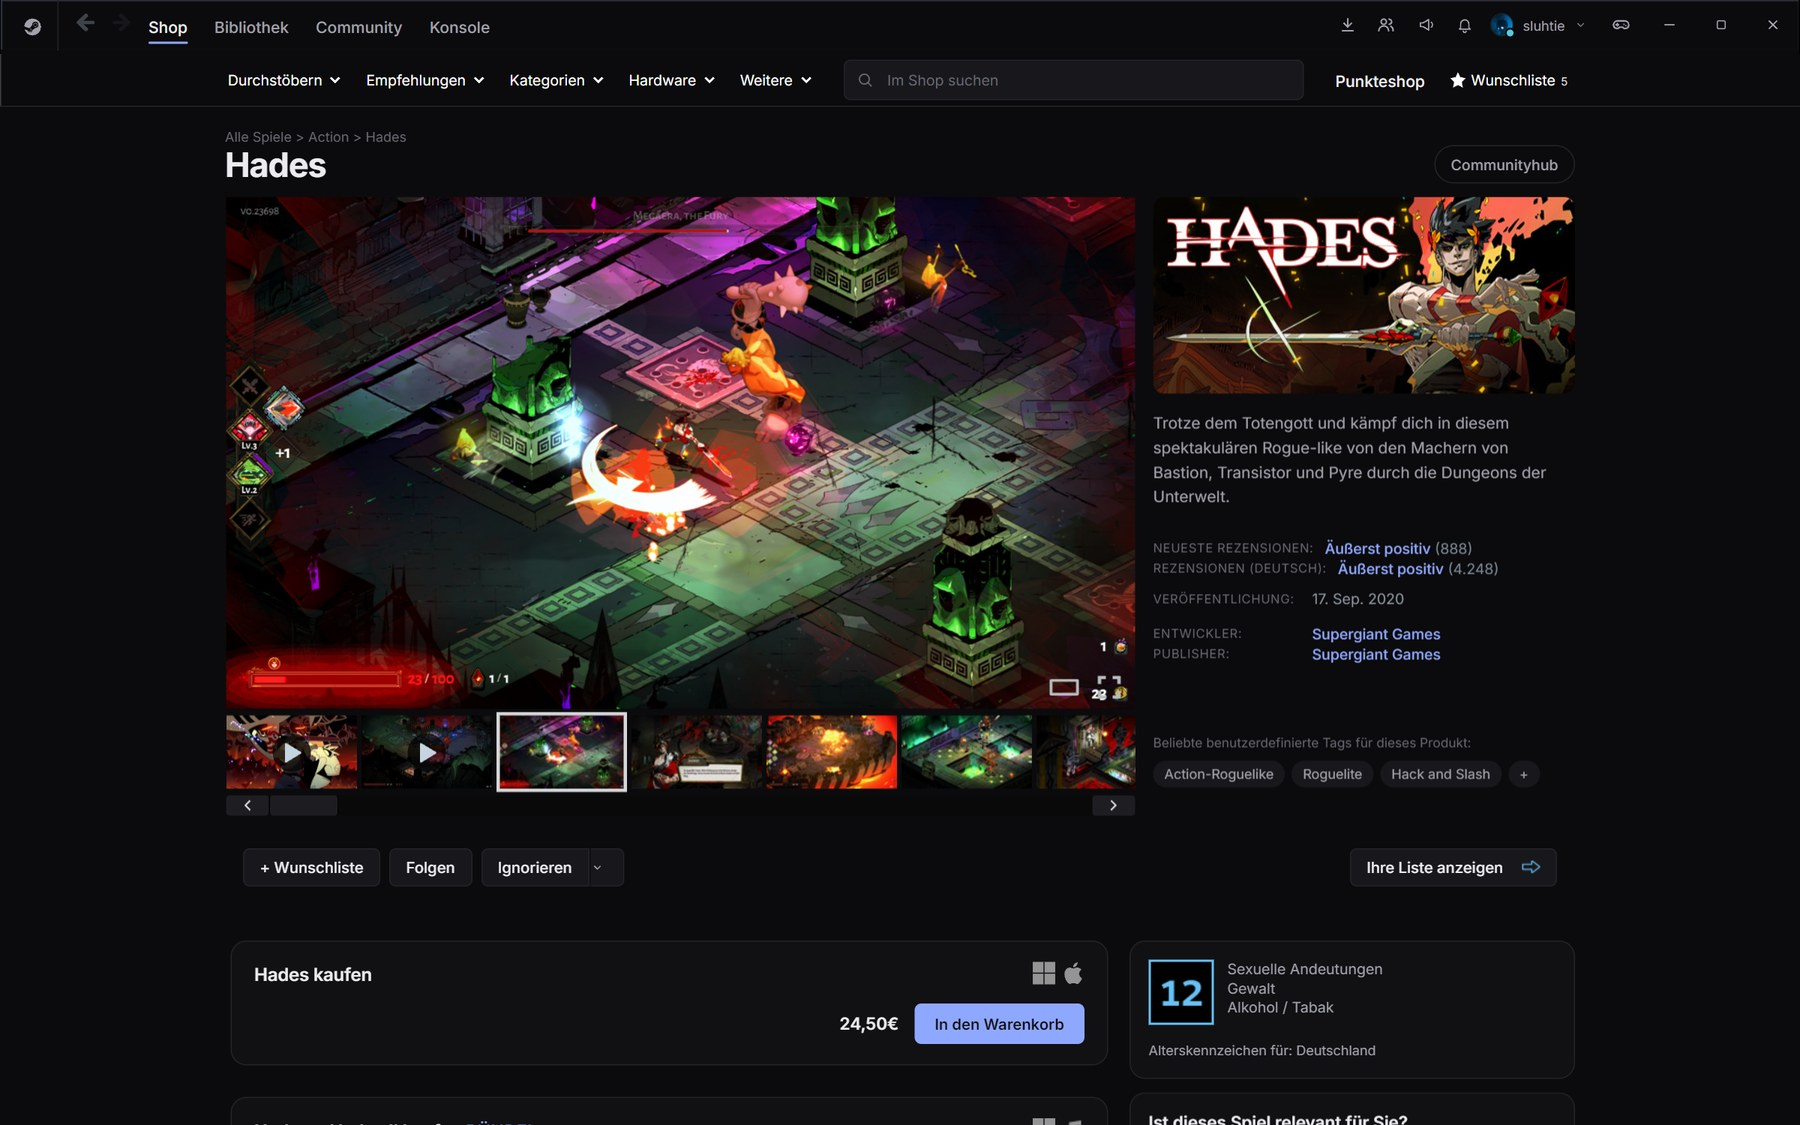
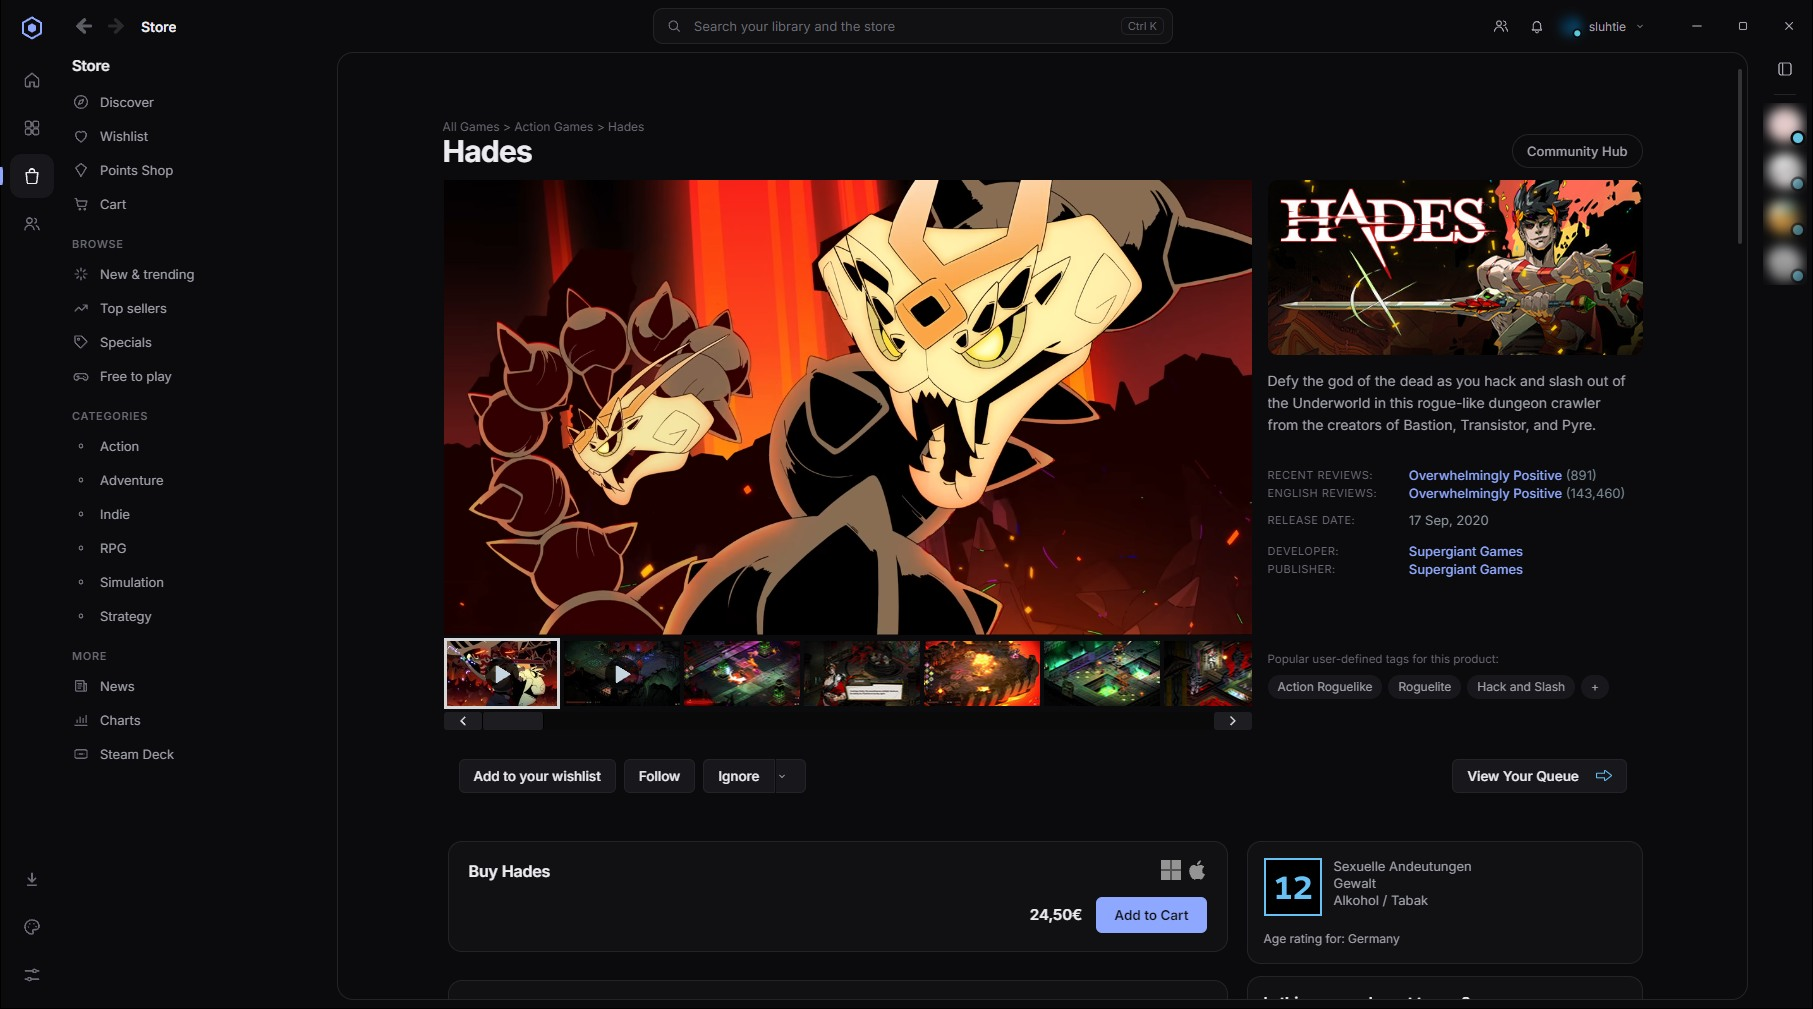
README and screenshots for Graphite 2.0, version 2.0.0
New captures of the 2.0 layout (library, game details, store front,
category page, points shop, store game page, wishlist, market, Graphite
settings page; friends' avatars blurred), re-rendered banner, thumbnail,
Millennium splash and a 2.0 highlights graphic. README: what's new in 2.0,
updated screenshots table, themed areas, options (Navigation 2.0, Startup
screen, the Graphite page), install steps for 2.0, how the shell works and
which requests the theme makes.

diff --git a/docs/src/features.html b/docs/src/features.html
@@ -33,34 +33,34 @@
 <body>
 	<div class="grid">
 		<div class="card">
-			<div class="icon"><svg viewBox="0 0 24 24" fill="none" stroke="currentColor" stroke-width="1.8" stroke-linecap="round" stroke-linejoin="round"><rect x="3" y="4" width="18" height="16" rx="3"/><path d="M3 9h18"/><path d="M7 6.5h.01M10 6.5h.01"/></svg></div>
-			<h3>One clean header</h3>
-			<p>A single row for navigation, downloads, friends and account. Menus fold away behind the Steam logo.</p>
+			<div class="icon"><svg viewBox="0 0 24 24" fill="none" stroke="currentColor" stroke-width="1.8" stroke-linecap="round" stroke-linejoin="round"><rect x="3" y="4" width="18" height="16" rx="3"/><path d="M8 4v16"/><path d="M5.5 8h.01M5.5 11h.01M5.5 14h.01"/></svg></div>
+			<h3>A new layout</h3>
+			<p>Graphite 2.0: an icon rail, one search in the title bar and a side navigation for the store and community.</p>
 		</div>
 		<div class="card">
-			<div class="icon"><svg viewBox="0 0 24 24" fill="none" stroke="currentColor" stroke-width="1.8" stroke-linecap="round" stroke-linejoin="round"><rect x="3" y="3" width="7.5" height="7.5" rx="2"/><rect x="13.5" y="3" width="7.5" height="7.5" rx="2"/><rect x="3" y="13.5" width="7.5" height="7.5" rx="2"/><rect x="13.5" y="13.5" width="7.5" height="7.5" rx="2"/></svg></div>
-			<h3>Library</h3>
-			<p>Game list, home shelves, game pages, activity, downloads and the news overlay in one calm style.</p>
+			<div class="icon"><svg viewBox="0 0 24 24" fill="none" stroke="currentColor" stroke-width="1.8" stroke-linecap="round" stroke-linejoin="round"><circle cx="11" cy="11" r="7"/><path d="m20 20-3.5-3.5"/></svg></div>
+			<h3>One search</h3>
+			<p>Your library and the store in one box, with live store suggestions, prices and discounts as you type.</p>
 		</div>
 		<div class="card">
 			<div class="icon"><svg viewBox="0 0 24 24" fill="none" stroke="currentColor" stroke-width="1.8" stroke-linecap="round" stroke-linejoin="round"><path d="M5 8h14l-1.2 11.2a2 2 0 0 1-2 1.8H8.2a2 2 0 0 1-2-1.8L5 8z"/><path d="M9 8V6.5a3 3 0 0 1 6 0V8"/></svg></div>
-			<h3>Store &amp; Community</h3>
-			<p>Redesigned store front, game pages, wishlist and news hub, plus profiles, discussions and the Market.</p>
+			<h3>Store, redesigned</h3>
+			<p>Hero cards on the front page and every category, a points shop with its own banner, calm cards and prices.</p>
 		</div>
 		<div class="card">
-			<div class="icon"><svg viewBox="0 0 24 24" fill="none" stroke="currentColor" stroke-width="1.8" stroke-linecap="round" stroke-linejoin="round"><path d="M20 12a8 8 0 0 1-11.6 7.1L4 20l1-4.2A8 8 0 1 1 20 12z"/><path d="M9 11.5h.01M12 11.5h.01M15 11.5h.01"/></svg></div>
-			<h3>Friends &amp; chat</h3>
-			<p>A tidy friends list with status dots, a roomy chat window, emoji picker and context menus.</p>
+			<div class="icon"><svg viewBox="0 0 24 24" fill="none" stroke="currentColor" stroke-width="1.8" stroke-linecap="round" stroke-linejoin="round"><path d="M16 21v-2a4 4 0 0 0-4-4H6a4 4 0 0 0-4 4v2"/><circle cx="9" cy="7" r="4"/><path d="M22 21v-2a4 4 0 0 0-3-3.87"/><path d="M16 3.13a4 4 0 0 1 0 7.75"/></svg></div>
+			<h3>Friends at hand</h3>
+			<p>A friends dock on the side with a status menu and unread glow, group chats and the chat window in one style.</p>
 		</div>
 		<div class="card">
 			<div class="icon"><svg viewBox="0 0 24 24" fill="none" stroke="currentColor" stroke-width="1.8" stroke-linecap="round" stroke-linejoin="round"><path d="M12 3a9 9 0 1 0 0 18c1.1 0 1.8-.8 1.8-1.7 0-.5-.2-.9-.5-1.2-.3-.3-.5-.8-.5-1.2 0-1 .8-1.8 1.8-1.8H16a5 5 0 0 0 5-5c0-3.9-4-7.1-9-7.1z"/><path d="M7.5 11h.01M10 7h.01M14.5 7h.01"/></svg></div>
-			<h3>Your colors</h3>
-			<p>Pick any accent, tune every surface and text level, and choose font, corners and layout.</p>
+			<h3>Your colors, live</h3>
+			<p>A Graphite page in the client: accent presets, every color applied live, font, corners and layout.</p>
 		</div>
 		<div class="card">
-			<div class="icon"><svg viewBox="0 0 24 24" fill="none" stroke="currentColor" stroke-width="1.8" stroke-linecap="round" stroke-linejoin="round"><path d="M20 11a8 8 0 0 0-14.7-4.4L4 8"/><path d="M4 4v4h4"/><path d="M4 13a8 8 0 0 0 14.7 4.4L20 16"/><path d="M20 20v-4h-4"/></svg></div>
-			<h3>Survives updates</h3>
-			<p>Readable class tokens are resolved against your Steam install. One command fixes it after an update.</p>
+			<div class="icon"><svg viewBox="0 0 24 24" fill="none" stroke="currentColor" stroke-width="1.8" stroke-linecap="round" stroke-linejoin="round"><path d="M12 2.5 20.2 7.25v9.5L12 21.5 3.8 16.75v-9.5L12 2.5Z"/><path d="M12 8.5 15 10.25v3.5L12 15.5l-3-1.75v-3.5L12 8.5Z"/></svg></div>
+			<h3>The details</h3>
+			<p>Graphite logo on the startup screen and loading spinners, a loading bar for web pages, rounded frame, floating scrollbar.</p>
 		</div>
 	</div>
 </body>

diff --git a/README.md b/README.md
@@ -4,7 +4,9 @@
 
 **A clean, minimal and modern theme for the Steam desktop client, built for [Millennium](https://steambrew.app).**
 
-Neutral graphite surfaces, one accent color you choose, quiet typography and a single-row header. Graphite restyles the whole client, from the library and menus to the store, community and friends chat, without gradients, glow or visual noise.
+Neutral graphite surfaces, one accent color you choose and quiet typography. Graphite restyles the whole client, from the library and menus to the store, community and friends chat, without gradients, glow or visual noise.
+
+**New in 2.0 (beta):** a rebuilt app layout with an icon rail, one search for your library and the store, a side navigation for the store and community, a friends dock and a settings page of its own.
 
 [![Millennium theme](https://img.shields.io/badge/Millennium-theme-8fa8ff?style=for-the-badge&labelColor=18181c&logo=steam&logoColor=ececf0)](https://steambrew.app/theme/AhWCRyHBVXoohiaVWWBW)
 [![Version](https://img.shields.io/github/package-json/v/sluhtie/graphite-steam?style=for-the-badge&labelColor=18181c&color=8fa8ff&label=version)](https://github.com/sluhtie/graphite-steam/commits/main)
@@ -14,9 +16,19 @@ Neutral graphite surfaces, one accent color you choose, quiet typography and a s
 
 ---
 
-## Highlights
+## What's new in 2.0
 
-![Graphite highlights](docs/features.jpg)
+![Graphite 2.0 highlights](docs/features.jpg)
+
+Graphite 2.0 is an optional layout for the main window. Turn it on with **Navigation → Graphite 2.0 (beta)** (see [Make it yours](#make-it-yours)); the classic layouts stay available.
+
+- **Icon rail** on the left: Home, Library, Store, Community, Downloads (with a progress ring), Graphite settings and Steam settings. The Graphite logo replaces the Steam logo and holds View / Friends / Games / Help.
+- **One search** in the title bar for your library and the store, with live store suggestions, prices and discounts as you type (`Ctrl K`).
+- **Side navigation** for the store (Discover, Wishlist, Points Shop, Cart, browse, categories, news, charts) and the community (activity, profile, friends, groups, discussions, workshop, market, inventory, badges ...). The page sits next to it in a rounded frame with a floating scrollbar and a thin loading bar.
+- **Friends dock** on the right: friends by status, a status menu (Online, Away, Invisible, Offline, Do not disturb), unread glow and your chats.
+- **Store, redesigned**: hero cards on the store front and on every category page (art, logo, description, price, add to cart, wishlist), a Points Shop with its own banner and category chips, calm capsules, prices and hover cards.
+- **Graphite settings page**: accent presets and every color applied live, font, corners and layout options, one click to reload the UI.
+- **The details**: a startup screen and loading spinners with the Graphite logo, notifications and toasts in the same style.
 
 ## Screenshots
 
@@ -27,22 +39,25 @@ Neutral graphite surfaces, one accent color you choose, quiet typography and a s
 | **Game details** | **Store** |
 | --- | --- |
 | ![Game details](docs/game.jpg) | ![Store](docs/store.jpg) |
+| **Category page** | **Points Shop** |
+| ![Category page](docs/category.jpg) | ![Points Shop](docs/points.jpg) |
 | **Store game page** | **Wishlist** |
 | ![Store game page](docs/app.jpg) | ![Wishlist](docs/wishlist.jpg) |
-| **Community Market** | **Settings** |
-| ![Community Market](docs/market.jpg) | ![Settings](docs/settings.jpg) |
+| **Community Market** | **Graphite settings** |
+| ![Community Market](docs/market.jpg) | ![Graphite settings](docs/graphite.jpg) |
 
 ## What it themes
 
 | | Area | What changes |
 | --- | --- | --- |
-| 🧭 | **Navigation** | One row: Steam logo, back / forward, Store / Library / Community, downloads, friends, notifications and account. View / Friends / Games / Help fold away behind the logo. The store keeps its own nav (plus a Points Shop link), community pages get a slim sub-navigation incl. your profile, inventory and badges. |
-| 🪟 | **Window frame** | Own icon set for the title bar and window controls, round avatar with a status dot. The bottom bar is gone: Downloads (with progress) and Friends & Chat live in the title bar. |
-| 🎮 | **Library** | Game list, home shelves and capsules, hover cards, game details (hero, play bar, sections, activity), news and patch notes overlay, downloads, console. |
-| 🛒 | **Store** | Calm store front with one rounded hero, redesigned game pages (one card per purchase option, plain feature and link lists), wishlist, search, discovery queue, news hub, calendar and charts. |
+| 🧭 | **Navigation** | **Graphite 2.0:** icon rail, title bar search, side navigation for store and community, friends dock. **Clean:** one row with back / forward, Store / Library / Community, downloads, friends, notifications and account; View / Friends / Games / Help fold away behind the logo. **Classic:** Steam's own menus. |
+| 🪟 | **Window frame** | Own icon set for the title bar and window controls, round avatar with a status dot, no bottom bar. In 2.0 the store and community sit in a rounded frame with a loading bar. |
+| 🎮 | **Library** | Game list, home shelves and capsules, hover cards, game details (hero, play bar, sections, activity), news and patch notes overlay, downloads with the bandwidth graph, install / uninstall dialogs, console. |
+| 🛒 | **Store** | Store front and category pages with one hero card each, game pages (one card per purchase option), wishlist and its dialogs, search with filters, new & trending, points shop and points history, discovery queue, news hub, calendar and charts. |
 | 👥 | **Community** | Home, hubs, discussions, workshop, activity, profiles, friends and groups, screenshots / artwork / guides, badges, inventory and the Community Market incl. the new item pages. |
-| 💬 | **Friends & chat** | Friends list with status dots and tidy group chats, a roomy chat window, emoji picker. |
-| 🧩 | **Menus & dialogs** | Root menus, nav dropdowns, context menus, the settings window, toggles, inputs, buttons and modals. |
+| 💬 | **Friends & chat** | Friends list with status dots, group chats with channels, a roomy chat window, emoji picker. |
+| 🧩 | **Menus & dialogs** | One style for every menu (root menus, dropdowns, context menus), the settings window, toggles, inputs, buttons, modals, notifications and toasts. |
+| ⏳ | **Loading** | Steam's spinning logo becomes the Graphite logo everywhere; 2.0 adds a startup screen while the main window loads. |
 
 Custom profile backgrounds stay visible, discount badges keep Steam's green, and item rarity and online / in-game colors are untouched.
 
@@ -50,17 +65,20 @@ Custom profile backgrounds stay visible, discount badges keep Steam's green, and
 
 ![Accent colors](docs/accents.jpg)
 
-Everything is set in **Millennium → Themes → Graphite**:
+Everything is set in **Millennium → Themes → Graphite**, and with Graphite 2.0 also on the **Graphite page** in the client (the palette icon in the rail), where colors apply right away:
 
 | Option | Choices |
 | --- | --- |
-| **Colors** | Accent, play button, background, surfaces, borders and three text levels, all editable |
+| **Colors** | Accent (with presets), play button, background, surfaces, borders and three text levels, all editable |
 | **Font** | Inter (default), System (Segoe UI), Motiva Sans |
 | **Corners** | Rounded (default), Sharp |
+| **Navigation** | Clean (default), Graphite 2.0 (beta), Classic (Steam's own menus and hover dropdowns) |
 | **Header** | Single row (default), Classic two-row layout |
-| **Navigation** | Clean (default), Classic (Steam's own menus and hover dropdowns) |
 | **Store & community pages** | Restyle the in-client web pages (on by default) |
+| **Startup screen** | The Graphite logo while the main window loads (2.0, on by default) |
 | **Extras** | Hide URL bar (on by default), Hide What's New |
+
+Options other than colors take effect after reloading the UI (the Graphite page offers a button) or restarting Steam.
 
 ## Install
 
@@ -74,6 +92,7 @@ Everything is set in **Millennium → Themes → Graphite**:
 
    You can also download the ZIP and extract it there.
 3. Restart Steam, open **Steam → Millennium → Themes** and select **Graphite**.
+4. For the 2.0 layout, set **Navigation** to **Graphite 2.0 (beta)** and restart Steam.
 
 ## After a Steam update
 
@@ -100,17 +119,20 @@ Graphite's source CSS in `src/` uses readable tokens instead of hashes, and a sm
 
 `tools/build.mjs` reads Steam's `steamui/*.js` bundles, extracts every module's `name -> hash` map and writes the resolved CSS and scripts to `build/`. That output is committed, so the theme works without a build step.
 
-The store and community are Valve's web pages. Older parts use stable class names; newer React parts use Valve's web design system, whose color scales Graphite remaps on `:root`. Two small local scripts handle the rest. Neither makes network requests.
+The store and community are Valve's web pages. Older parts use stable class names; newer React parts use Valve's web design system, whose color scales Graphite remaps on `:root`. Small local scripts handle the rest:
 
-- **`src/scripts/web-recolor.js`** (Store & community option): swaps the hardcoded blue-greys of Valve's newest React pages for Graphite surfaces. It also tags the parts of the wishlist, game pages, news hub and event overlay with stable `gr-*` classes, so the theme can restyle them despite Valve's changing class names.
-- **`src/scripts/nav.js`** (Clean navigation): stops the tab dropdowns from opening on hover, moves Downloads and Friends & Chat into the title bar and adds the community sub-navigation.
+- **`src/scripts/shell.js`** (Navigation: Graphite 2.0): builds the 2.0 layout on top of Steam's own UI. Rail, search and side navigation use Steam's router and `steam://` URLs, so every page is still Steam's real page. The store and community are Steam's native browser view, which follows a placeholder element, so resizing that element moves the page into the frame. Also includes the Graphite settings page (`shell-theme.js`), the store hero cards and the Points Shop (`points.js`).
+- **`src/scripts/web-recolor.js`** (Store & community option): swaps the hardcoded blue-greys of Valve's newest React pages for Graphite surfaces, and tags the parts of the wishlist, game pages, news hub, category pages and event overlay with stable `gr-*` classes, so the theme can restyle them despite Valve's changing class names.
+- **`src/scripts/nav.js`** (Navigation: Clean): stops the tab dropdowns from opening on hover, moves Downloads and Friends & Chat into the title bar and adds the community sub-navigation.
+
+Graphite has no server of its own and sends no data anywhere. Besides the Inter font from Google Fonts (pick **Font: System** to avoid it), the only requests are Steam's own: the store's `appdetails` API from inside the store page (for the hero cards) and Steam's search suggestions through the client's connection (for the title bar search). Settings are read and written through Millennium.
 
 ## Development
 
 | Command | Purpose |
 | --- | --- |
 | `npm run build` | Resolve tokens and write `build/` |
-| `npm run live` | Inject the built theme into a running Steam started with `-dev` (DevTools on port 8080), without restarting Steam |
+| `npm run live` | Inject the built theme into a running Steam started with `-dev` (DevTools on port 8080), without restarting Steam. `--set "Option=Value"` previews an option, `--colors` also injects `colors.css` |
 | `node tools/lookup.mjs <Key or hash>` | Show which Steam module defines a class, plus unique anchors |
 | `node tools/render-docs.mjs ...` | Render the README images from `docs/src` (see [docs/src/README.md](docs/src/README.md)) |
 
@@ -122,12 +144,14 @@ src/             Source CSS with $(Token) class references
   menus.css      Popup menus
   dialogs.css    Settings and other dialog windows
   friends.css    Friends list and chat
+  toasts.css     Desktop notifications
   partials/      Shared pieces pulled in with @import
-  options/       Stylesheets toggled by theme options (webkit.css = store/community)
-  scripts/       nav.js (clean navigation), web-recolor.js (React web pages)
+  options/       Stylesheets toggled by theme options (shell.css = 2.0 layout, webkit.css = store/community)
+  scripts/       shell.js (2.0 layout, incl. shell-theme.js, points.js), nav.js (clean navigation),
+                 web-recolor.js (React web pages, incl. marketing.js)
 build/           Generated output loaded by Millennium (do not edit)
 tools/           Build, live preview, lookup and docs render scripts
-docs/            README images; docs/src holds their HTML sources
+docs/            README images; docs/src holds their HTML sources and raw captures
 ```
 
 ## License

diff --git a/docs/src/README.md b/docs/src/README.md
@@ -8,15 +8,17 @@ the repo root.
 | --- | --- | --- |
 | `docs/banner.webp` | `banner.html` | frames, then encode (below) |
 | `docs/thumbnail.jpg` (steambrew header) | `thumbnail.html` | `node tools/render-docs.mjs still docs/src/thumbnail.html docs/thumbnail.jpg 1920 1080` |
-| `docs/library.jpg`, `game.jpg`, `store.jpg`, `app.jpg`, `wishlist.jpg`, `market.jpg` | `frame.html#<shot>` | `node tools/render-docs.mjs still "docs/src/frame.html#library" docs/library.jpg 1800 1180` |
-| `docs/settings.jpg` | `frame.html#settings` | same, at `1800 940` |
+| `docs/library.jpg`, `game.jpg`, `store.jpg`, `category.jpg`, `points.jpg`, `app.jpg`, `wishlist.jpg`, `market.jpg`, `graphite.jpg` | `frame.html#<shot>` | `node tools/render-docs.mjs still "docs/src/frame.html#library" docs/library.jpg 1800 1060` |
 | `docs/features.jpg` | `features.html` | `node tools/render-docs.mjs still docs/src/features.html docs/features.jpg 1800 760` |
 | `docs/accents.jpg` | `accents.html` | `node tools/render-docs.mjs still docs/src/accents.html docs/accents.jpg 1800 1150` |
 | `docs/splash.jpg` (Millennium splash) | top of `shots/game.jpg` | crop to 3.56 : 1, 1811×509 |
 
-`shots/` holds the raw client screenshots (1800 px wide, Steam window at
-1600×1000 CSS px). The accent rows are real captures of the wishlist with the
-accent changed live.
+`shots/` holds the raw client screenshots (Graphite 2.0, Steam window at
+1813×1009 CSS px, default accent). Store and community pages are Steam's native
+browser view, which a capture of the main window does not include: they are
+captured on their own and placed into the main window capture at the view's
+bounds. Friends' avatars are blurred. The accent rows are real captures of the
+wishlist with the accent changed live.
 
 ## Banner
 
